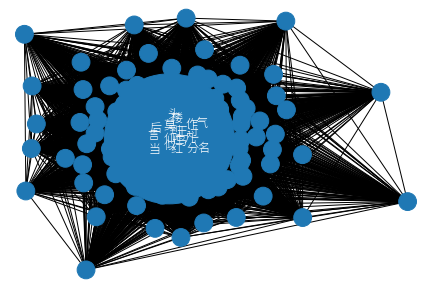
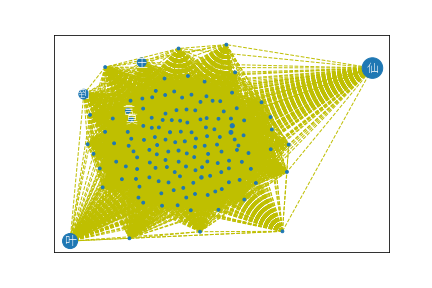
Update 2 on 20191215

diff --git a/Hongfei Yan/network generation.v0.1.py b/Hongfei Yan/network generation.v0.1.py
@@ -1,0 +1,104 @@
+# file import
+import matplotlib.pyplot as plt
+import numpy as np
+#import string
+import re
+import networkx as nx
+file = open("Tang_poems_utf_8.txt",encoding='utf8')
+text = file.read()
+file.close()
+
+# split and create regular poems
+# This is the font specified. I'm using Ubuntu, so I downloaded a free Chinese font to allow for matplotlib showing Chinese characters.
+#plt.rcParams['font.sans-serif'] = ['Taipei Sans TC Beta']
+
+filename = './output/word_frequency.txt'
+file = open(filename, encoding='utf8')
+text = file.read()
+file.close()
+
+text = text.split('\n')
+text = text[1:]
+
+words_df = {}
+for item in text:
+    word, fq = item.split()
+    words_df[word] = float(fq)
+    
+#dict_sorted = sorted(words_df.items(), key=lambda d: d[1], reverse=True)
+dict_sorted = list(words_df.keys())
+        
+# Given a dictionary, evaluate the co-occurence relationship between top 148 most frequently used words
+#used_words = [x[0] for x in dict_sorted[0:147]]
+used_words = dict_sorted[0:74]
+        
+G = nx.Graph()
+G.nodes()
+for x in used_words:
+    for y in set(used_words)-set([x]):
+        G.add_edge(x, y, weight=0) if y != x else None
+count = 0
+
+
+filename = './output/regular_poems.txt'
+file = open(filename, encoding='utf8')
+text = file.read()
+file.close()
+regular_poems = text.split("\n====\n")
+
+stopwords = re.compile(u'而|何|乎|乃|其|且|若|所|为|焉|以|因|于|与|也|则|者|之|不|\
+                       自|得|一|来|去|无|可|是|已|此|的|上|中|兮|三')
+
+import random
+#regular_poems = regular_poems[:500]
+regular_poems = random.sample(regular_poems, 800)
+
+
+for x in regular_poems:
+    y = stopwords.sub('', x)
+    count += 1
+    tmp_set = set(list(y))
+    for w in used_words:
+        for u in set(used_words)-set([w]):
+            if set([u, w]).issubset(tmp_set):
+                G[w][u]['weight'] = G[w][u]['weight'] + 1
+centrality = nx.betweenness_centrality(G, k=None, normalized=True,
+                                       weight='weight', endpoints=True, seed=None)
+weighted_centrality_sorted = sorted(
+    centrality.items(), key=lambda x: x[1], reverse=True)
+nodelist = [x[0] for x in weighted_centrality_sorted]
+print(weighted_centrality_sorted)
+nodelabels = {}
+count = 0
+for x in nodelist:
+    count += 1
+    #nodelabels[x] = x if count < 20 else ''
+    nodelabels[x] = x 
+    
+weight_list = [x[1] for x in weighted_centrality_sorted]
+#size_list = [((x/np.mean(weight_list))*20)**2 for x in weight_list]
+
+#size_list = [((x/np.mean(weight_list))*20)**2 for x in weight_list]
+
+miu = np.mean(weight_list)
+sigma = np.std(weight_list,ddof=0)
+size_list = [800*(x-miu)/sigma for x in weight_list]
+
+
+centrality_layout = nx.spring_layout(
+    G, pos=None, weight='weight', scale=1, center=None, dim=2)
+
+#plt.figure(figsize = (20, 20)) 
+plt.figure(figsize=(12, 8),dpi=200)
+
+node_color = [float(v) for v in weight_list]
+
+nx.draw(G, pos=centrality_layout, labels=nodelabels, nodelist=nodelist,
+        node_size=size_list, 
+        linewidth=0.1, font_color='w', edge_color='k',
+        font_family='SimHei', node_color=node_color)
+
+plt.axis('off')
+#nx.draw(G, font_family='SimHei', with_labels=True,node_size=size_list)
+plt.savefig('./output/network.png')
+#plt.show()

diff --git a/network generation.py b/network generation.py
@@ -95,20 +95,23 @@ centrality = nx.betweenness_centrality(G, k=None, normalized=True,
 for x in G.nodes():
     G.nodes[x]['weight'] = centrality[x]
 for x, y in G.edges():
-    G[x][y]['central'] = G.nodes[x]['weight'] + G.nodes[y]['weight']
+    G[x][y]['central'] = G.nodes[x]['weight'] + \
+        G.nodes[y]['weight'] + G[x][y]['weight']/100000
 weighted_centrality_sorted = sorted(
     centrality.items(), key=lambda x: x[1], reverse=True)
 nodelist = [x[0] for x in weighted_centrality_sorted]
 nodelabels = {}
-count = 0
-for x in nodelist:
-    count += 1
-    nodelabels[x] = x if count < 20 else ''
+
 weight_list = [x[1] for x in weighted_centrality_sorted]
+
 size_list = [((x/np.mean(weight_list)))**2*10 for x in weight_list]
+count = 0
+for i in range(len(size_list)):
+    x = nodelist[i]
+    nodelabels[x] = x if size_list[i] > 20 else ''
 centrality_layout = nx.kamada_kawai_layout(
     G, pos=None, weight='central', scale=5, center=None, dim=2)
 
-nx.draw(G, pos=centrality_layout, labels=nodelabels, nodelist=nodelist,
-        node_size=size_list, linewidth=0.01, font_color='w', edge_color='k')
+nx.draw_networkx(G, pos=centrality_layout, labels=nodelabels, nodelist=nodelist, style='dashed',
+                 node_size=size_list, linewidth=0.01, font_color='w', edge_color='y')
 plt.savefig('./output/network.png')

diff --git a/Hongfei Yan/QT_wordcloud.py b/Hongfei Yan/QT_wordcloud.py
@@ -1,0 +1,38 @@
+
+
+from wordcloud import WordCloud
+import matplotlib.pylab as plt
+
+font = "C:\Windows\Fonts\STXINGKA.TTF"
+wc = WordCloud(background_color="white",    #   背景颜色
+               max_words=300,               #   最大词数
+               #mask=back_color,            #   掩膜，产生词云背景的区域，以该参数值作图绘制词云，这个参数不为空时，width,height会被忽略
+               max_font_size=80,            #   显示字体的最大值
+               #stopwords=STOPWORDS.add("差评"),   #   使用内置的屏蔽词，再添加一个
+               font_path=font,              #   解决显示口字型乱码问题，可进入C:/Windows/Fonts/目录更换字体
+               random_state=42,             #   为每一词返回一个PIL颜色
+               prefer_horizontal=10)        #   调整词云中字体水平和垂直的多少
+
+
+filename = './output/word_frequency.txt'
+file = open(filename, encoding='utf8')
+text = file.read()
+file.close()
+
+text = text.split('\n')
+text = text[1:]
+
+words_df = {}
+for item in text:
+    word, fq = item.split()
+    words_df[word] = float(fq)
+
+
+wc.fit_words(words_df)
+
+plt.figure(figsize = (10, 10)) 
+plt.imshow(wc)
+plt.axis("off")
+plt.tight_layout(pad = 0) 
+  
+plt.show() 

diff --git a/Hongfei Yan/QT_2grams_wordcloud.py b/Hongfei Yan/QT_2grams_wordcloud.py
@@ -1,0 +1,38 @@
+
+
+from wordcloud import WordCloud
+import matplotlib.pylab as plt
+
+font = "C:\Windows\Fonts\STXINGKA.TTF"
+wc = WordCloud(background_color="white",    #   背景颜色
+               max_words=400,               #   最大词数
+               #mask=back_color,            #   掩膜，产生词云背景的区域，以该参数值作图绘制词云，这个参数不为空时，width,height会被忽略
+               max_font_size=80,            #   显示字体的最大值
+               #stopwords=STOPWORDS.add("差评"),   #   使用内置的屏蔽词，再添加一个
+               font_path=font,              #   解决显示口字型乱码问题，可进入C:/Windows/Fonts/目录更换字体
+               random_state=42,             #   为每一词返回一个PIL颜色
+               prefer_horizontal=10)        #   调整词云中字体水平和垂直的多少
+
+
+filename = './output/2grams.txt'
+file = open(filename, encoding='utf8')
+text = file.read()
+file.close()
+
+text = text.split('\n')
+text = text[1:]
+
+words_df = {}
+for item in text:
+    word, fq = item.split()
+    words_df[word] = float(fq)
+
+
+wc.fit_words(words_df)
+
+plt.figure(figsize = (16, 16)) 
+plt.imshow(wc)
+plt.axis("off")
+plt.tight_layout(pad = 0) 
+  
+plt.show() 
